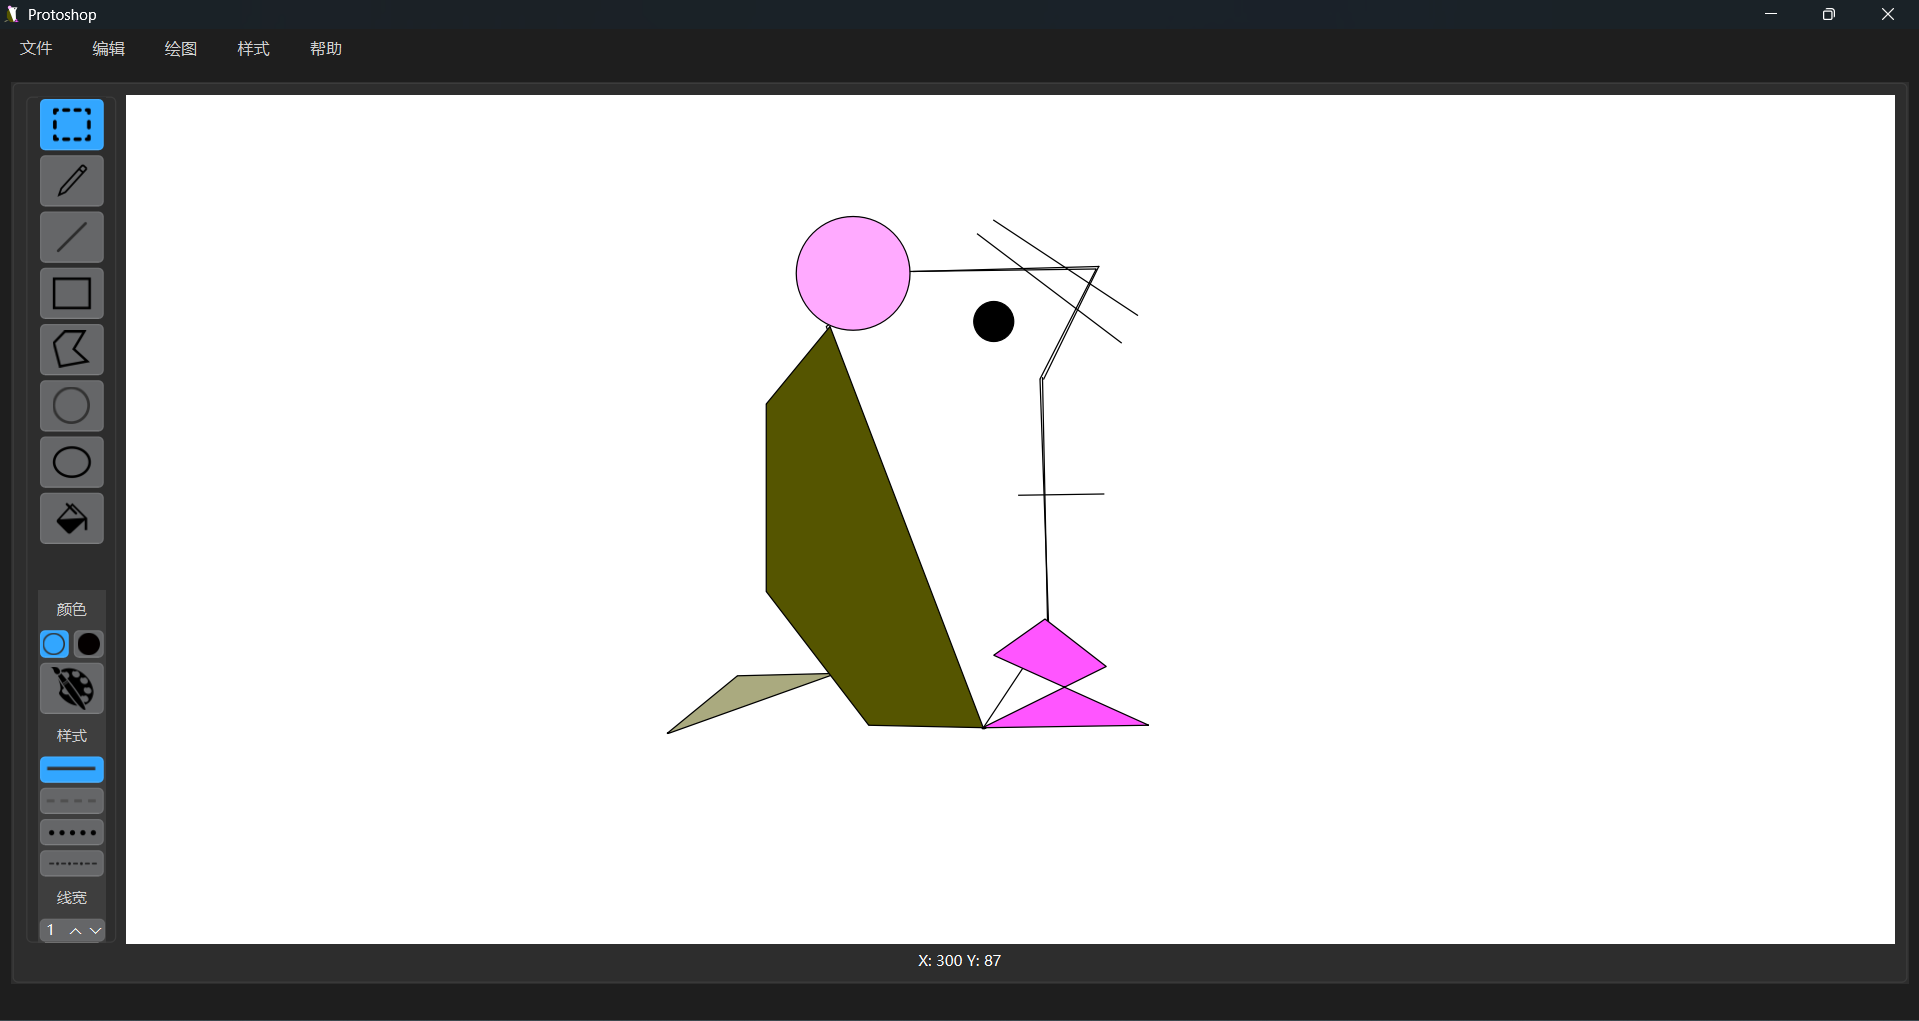
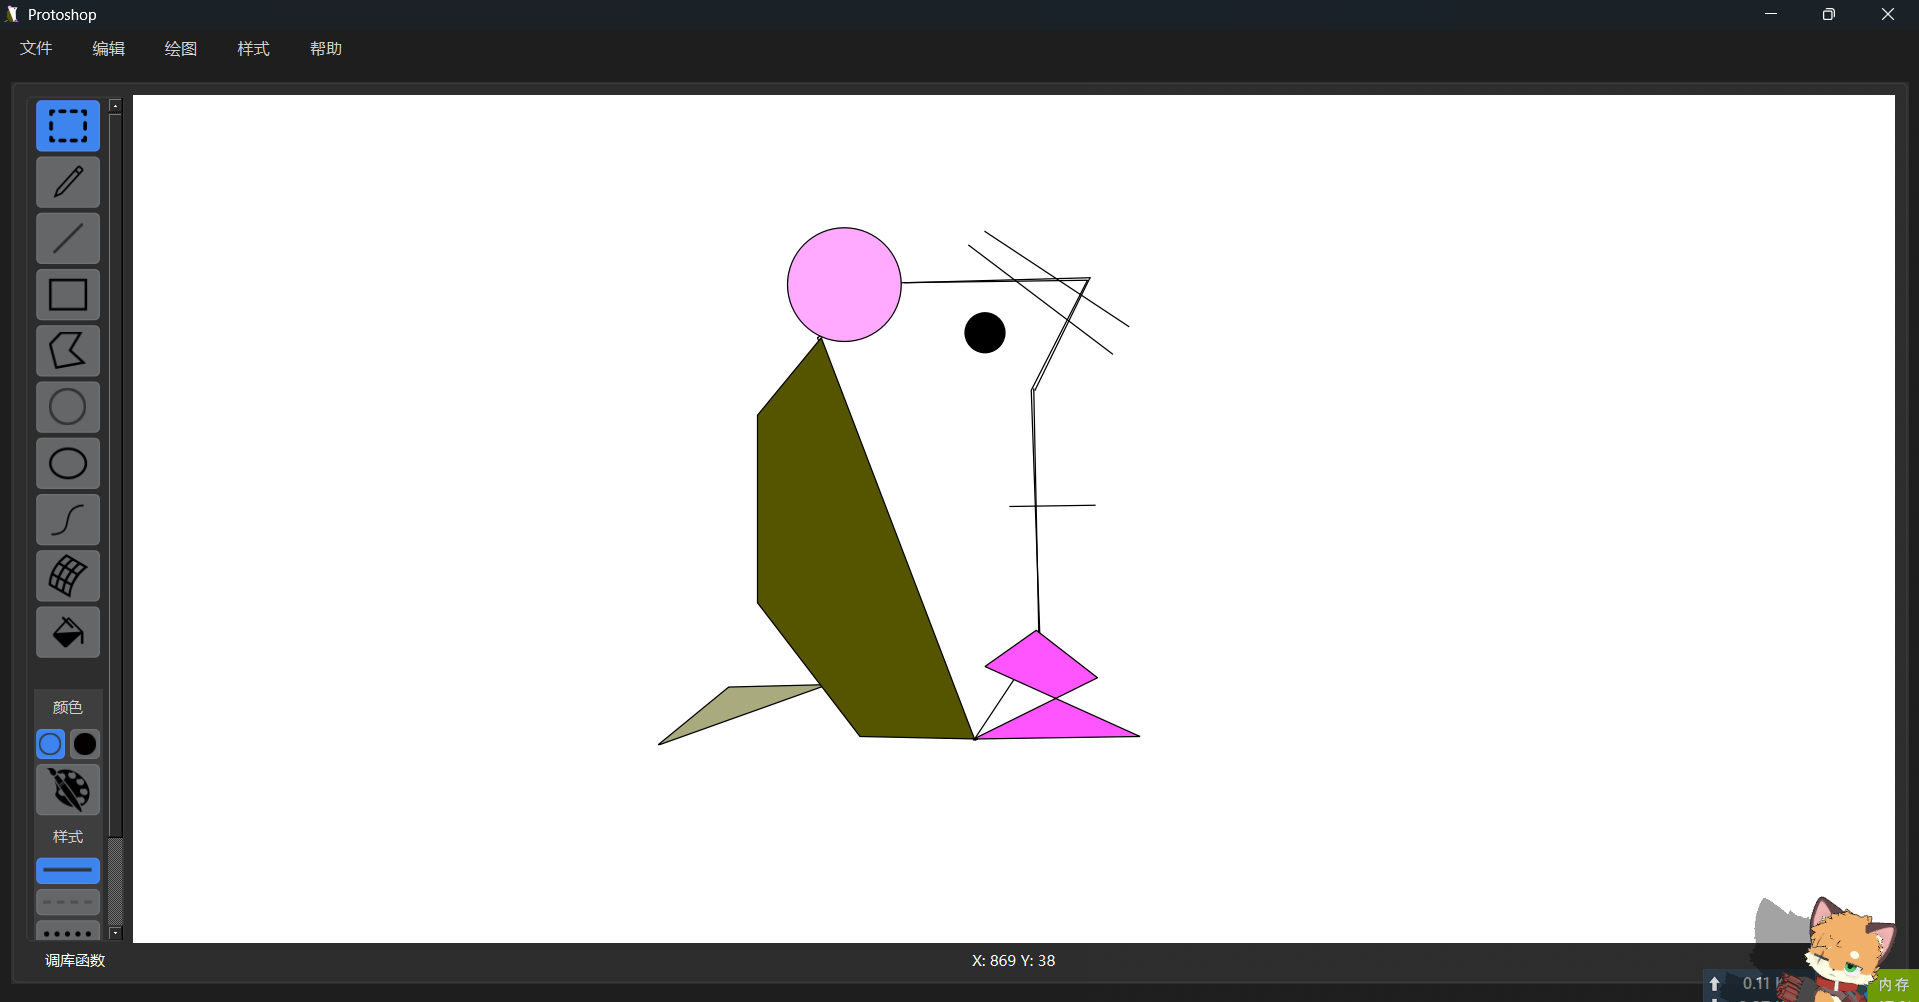
Update README.md

diff --git a/README.md b/README.md
@@ -19,13 +19,18 @@
 11. 撤销与重做：可以撤销或重做在画布上的行为
 12. 快捷键：详见“帮助→快捷键”
 13. 窗口自适应
-14. 新增：
+14. 两种绘图方式：
     - 切换图形绘制方式：在“绘图→绘制方式”中，可以选择“自制光栅”和“调库函数”两种绘制方式，前者是不依赖重要的库函数自己实现的绘图方式，后者是依赖重要库函数实现的绘图方式。当前绘图方式的选择在左下角会显示。
     - 对比不同算法：在“自制光栅”绘图方式下，绘制直线、圆形和椭圆可以选择不同的算法（如Bresenham。DDA，中点圆等）。
+15. 新增：
+    - 曲线绘制：三次贝塞尔曲线、三次B样条曲线
+    - 曲面绘制：双三次贝塞尔曲面
+
+<img src="images/mdImg/2.png">
 
 ## 开发环境
 
-Windows 10及以上, QtCreator, Qt 6.9, MinGW 64, C++ 11及以上, CMake 3.31（推荐）
+Windows 10及以上, QtCreator, Qt 6.9 以上, MinGW 64, C++ 11及以上, CMake 3.31（推荐）
 
 ## 如何使用
 
@@ -50,7 +55,7 @@ git clone https://github.com/fkjubitch/protoshop.git
 ## 目前发现的问题
 
 1. 有小概率情况会崩溃
-2. “调库函数”方式中，旋转后进行缩放会漂移
+2. “调库函数”方式中，旋转后进行缩放中心点会漂移
 3. “调库函数”方式中，第一笔的开始点位于左上角(0,0)
 4. “调库函数”方式图层混乱
 5. 撤销与重做的Bug
